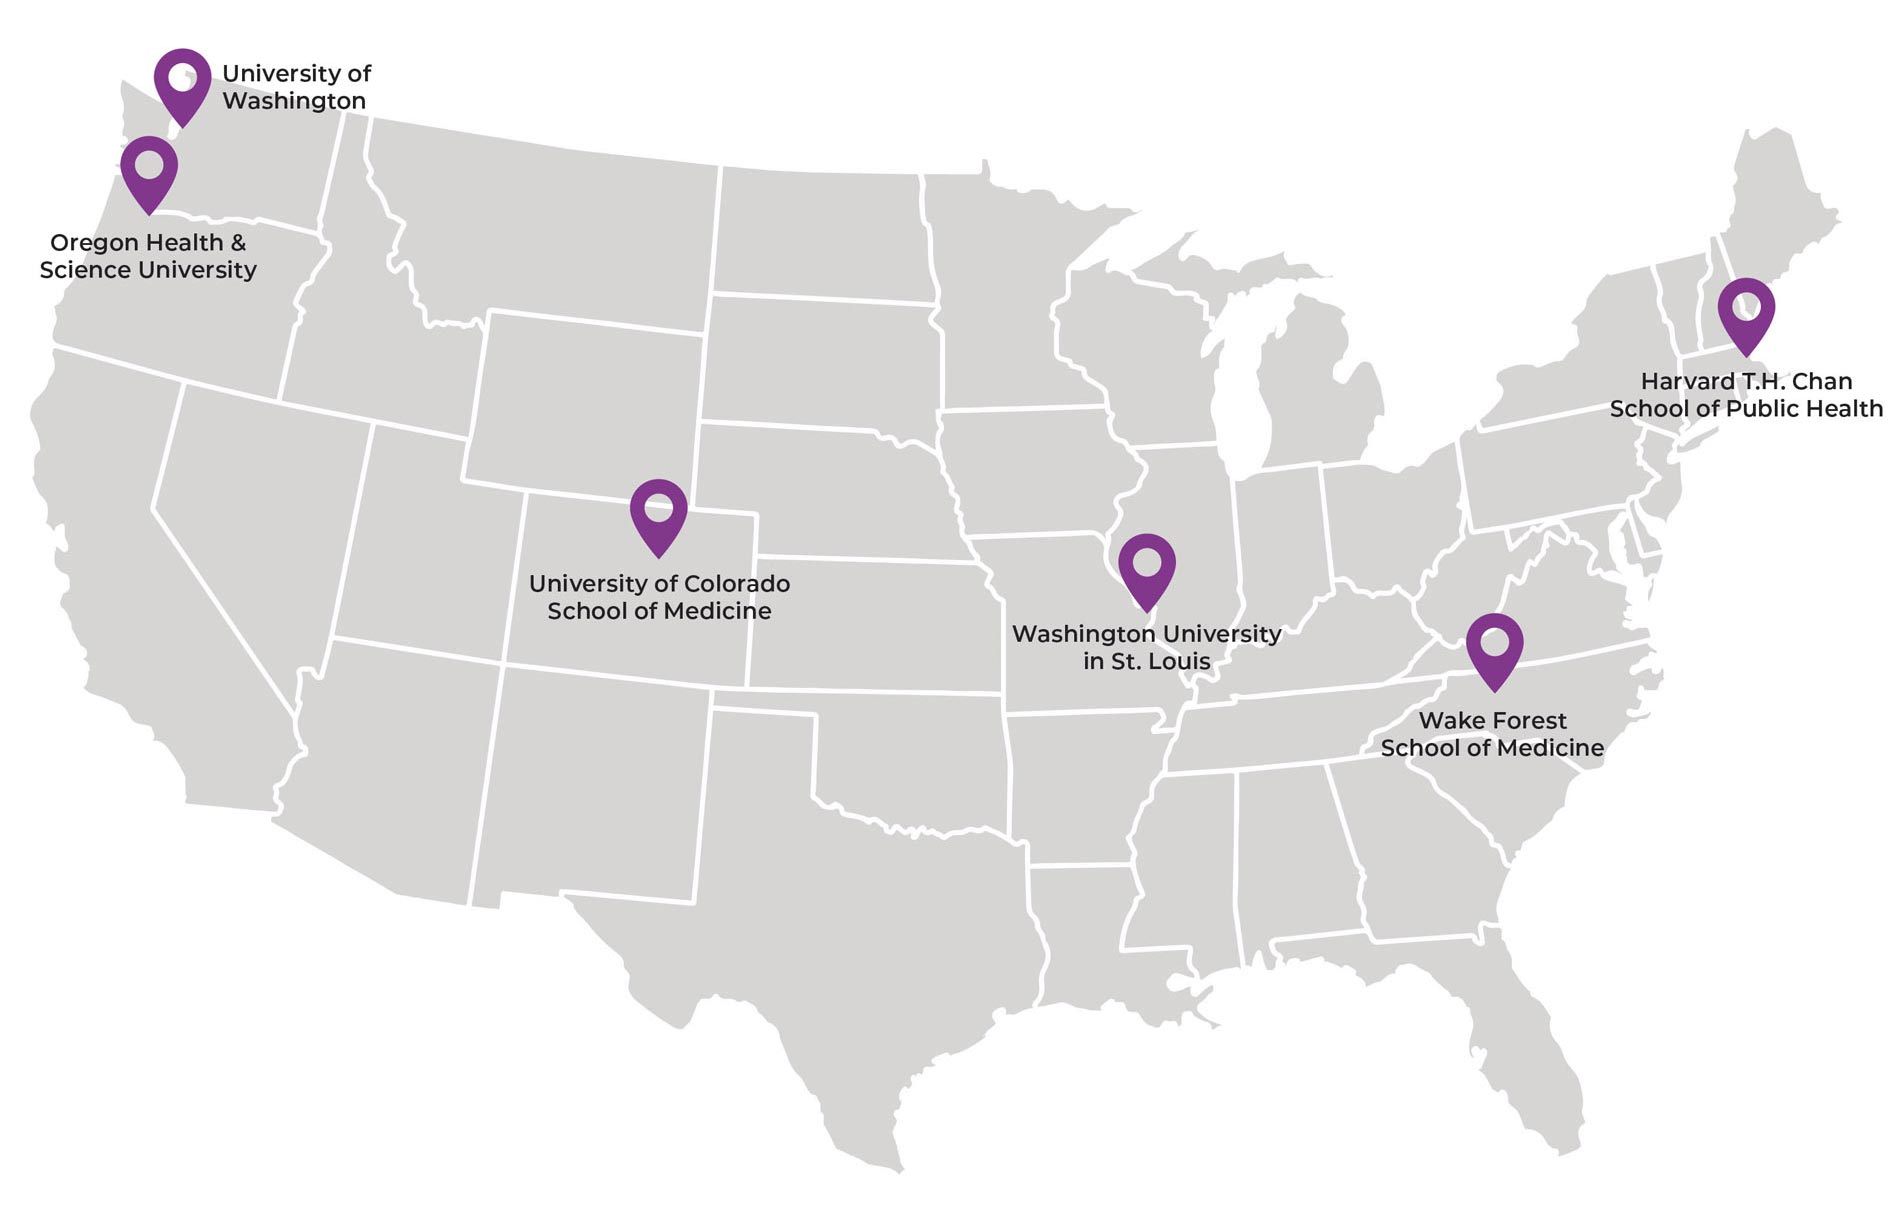
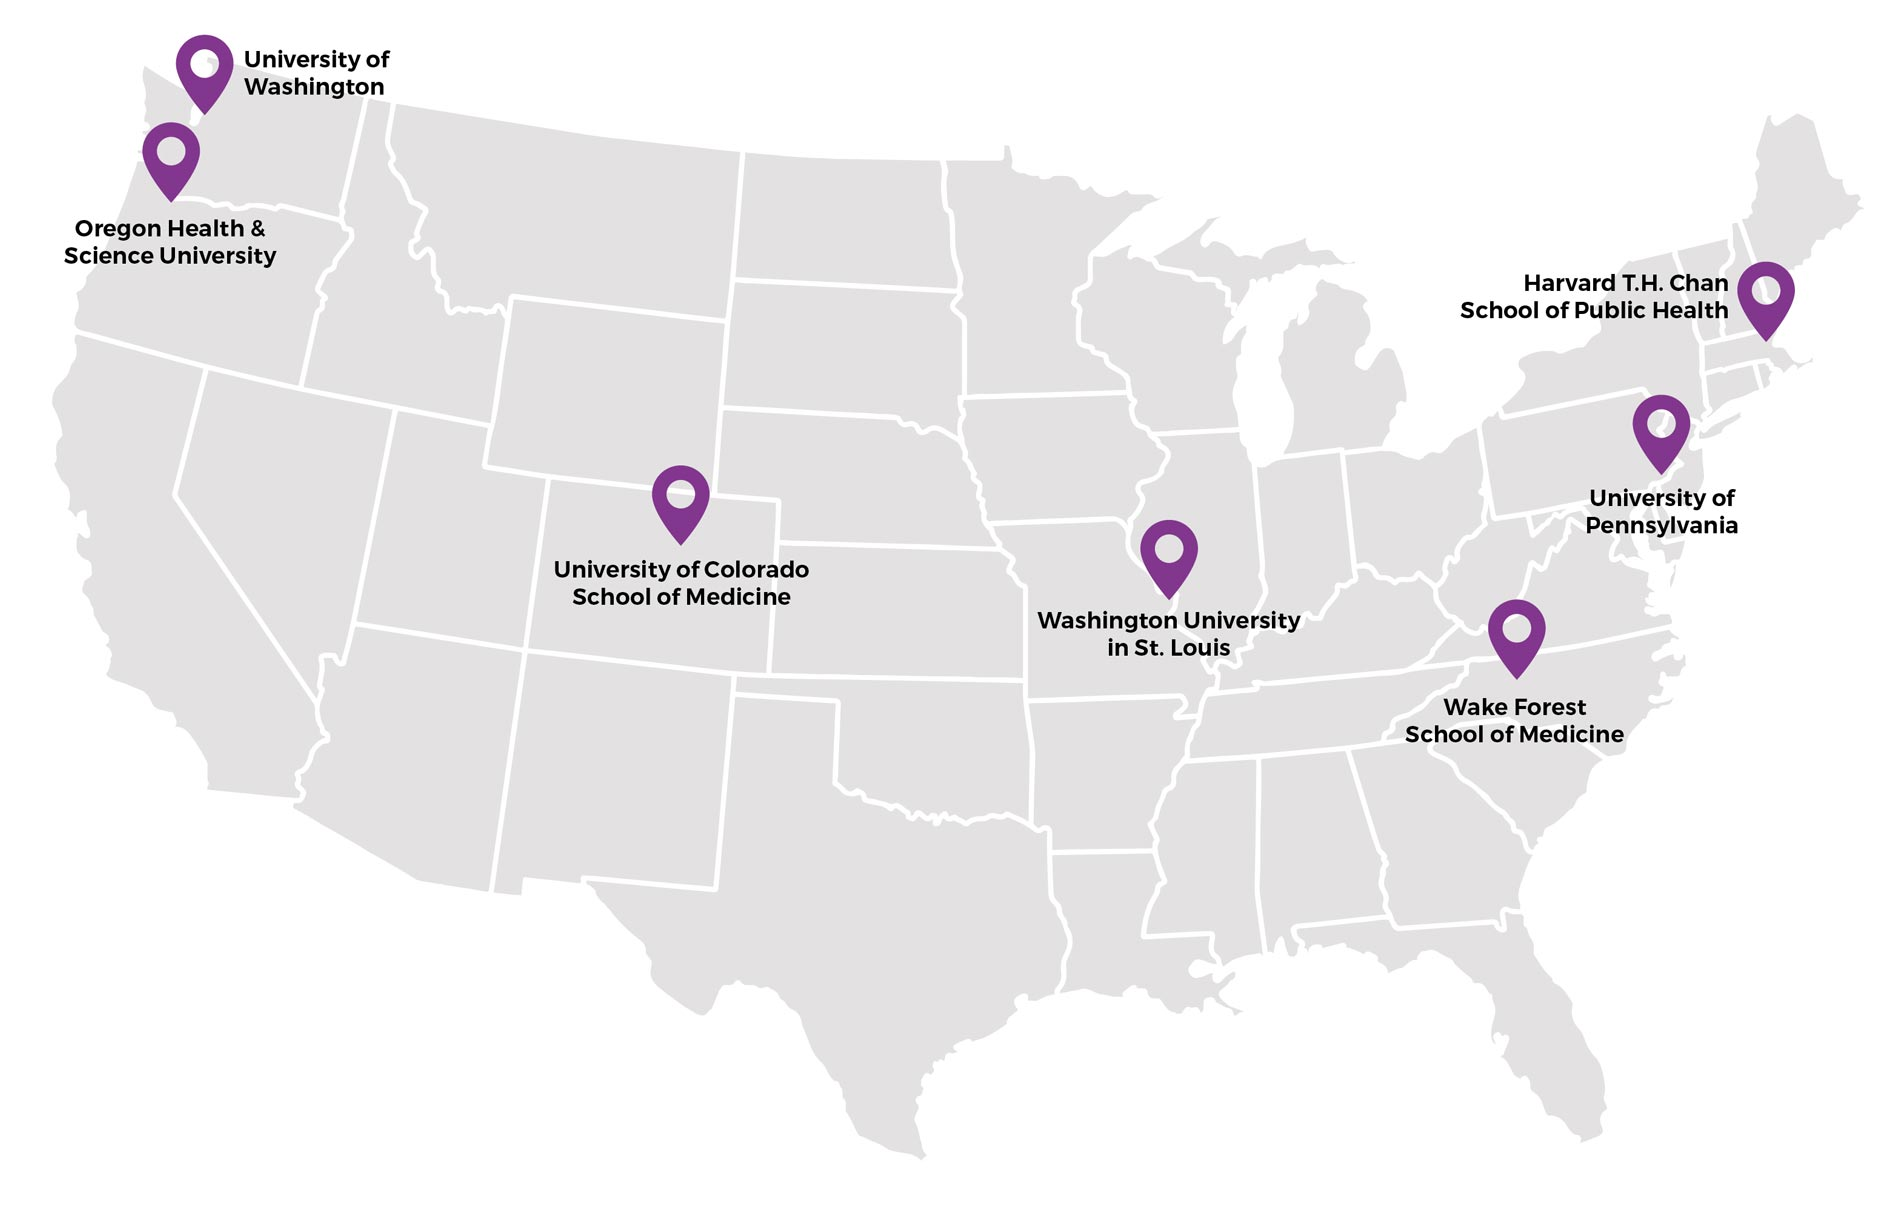
ISC3 update

diff --git a/IS/initiatives/ISC3.html b/IS/initiatives/ISC3.html
@@ -236,7 +236,7 @@ height="0" width="0" style="display:none;visibility:hidden" title="Google Tag Ma
             <div class="col-sm-12">
                 <h2 style="text-transform:none">Implementation Science Centers (P50s)</h2>
                 <div class="callout-box">
-                    <p>The ISC<sup>3</sup> Program is  composed of six Centers funded by <a href="https://grants.nih.gov/grants/guide/rfa-files/rfa-ca-19-005.html">RFA-CA-19-005</a> and <a href="https://grants.nih.gov/grants/guide/rfa-files/RFA-CA-19-006.html">RFA-CA-19-006</a>.</p>
+                    <p>The ISC<sup>3</sup> Program is  composed of seven Centers funded by <a href="https://grants.nih.gov/grants/guide/rfa-files/rfa-ca-19-005.html">RFA-CA-19-005</a> and <a href="https://grants.nih.gov/grants/guide/rfa-files/RFA-CA-19-006.html">RFA-CA-19-006</a>.</p>
 					<div class="row">
             			<div class="col-sm-10 col-sm-offset-1">
 							<img src="/IS/images/ISC3-Map.jpg" alt="Implementation Science Centers (P50s)" class="img-responsive">
@@ -297,6 +297,14 @@ height="0" width="0" style="display:none;visibility:hidden" title="Google Tag Ma
                           <td>Washington University in St. Louis</td>
                           <td><a href="https://projectreporter.nih.gov/project_info_description.cfm?aid=9869208&icde=46761976&ddparam=&ddvalue=&ddsub=&cr=4&csb=default&cs=ASC&pball=">1&nbsp;P50&nbsp;CA244431-01</a></td>
                         </tr>
+                        <tr>
+                          <th scope="row">Penn Implementation Science Center in Cancer Control (Penn ISC<sup>3</sup>)</th>
+                          <td><p>Justin Bekelman<br>
+                          Rinad Beidas<br>
+                          Robert Schnoll </p></td>
+                          <td>University of Pennsylvania</td>
+                          <td><a href="https://projectreporter.nih.gov/project_info_description.cfm?aid=9870182&icde=51229541&ddparam=&ddvalue=&ddsub=&cr=2&csb=default&cs=ASC&pball=">1&nbsp;P50&nbsp;CA244690-01</a></td>
+                        </tr>
                       </tbody>
                     </table>
                     </div>
@@ -313,10 +321,11 @@ height="0" width="0" style="display:none;visibility:hidden" title="Google Tag Ma
                 <p>Research activities for the Centers are organized around a cohesive, overarching implementation science theme that frames their activities and research agenda. </p>
                 <p><strong>Harvard T.H. Chan School of Public Health:</strong> The Implementation Science Center for Cancer Control Equity at Harvard is improving community health by integrating health equity and implementation science for evidence-based cancer control. </p>
                 <p><strong>Oregon Health &amp; Science University</strong>: The BRIDGE-C2 Center will focus on advancing implementation science to improve cancer screening and prevention in underserved populations. </p>
-                <p> <strong>University of Colorado School of Medicine:</strong> University of Colorado Denver will focus on pragmatic approaches to assess and enhance the value of cancer prevention and control in rural primary care. </p>
-                <p> <strong>University of Washington</strong>: The OPTICC Center will develop, test, and refine innovative methods for optimizing the implementation of evidence-based interventions in cancer control. </p>
-                <p> <strong>Wake Forest School of Medicine:</strong> iDAPT will advance the field of implementation science by using technologies to support rapid cycle and real-time deployment and testing of implementation processes and adaptations within cancer control. </p>
-                <p> <strong>Washington University in St. Louis</strong>: The WU-ISCCC will build a rigorous, scientific evidence base for rapid-cycle implementation research to increase the reach, external validity, and sustainability of effective cancer control interventions. The Center&rsquo;s goal and activities capture three distinct features: (1) a focus on elimination of cancer disparities; (2) the need for rapid-cycle studies; and (3) the use of systems science approaches to enhance methods and outcomes in implementation science.</p>
+                <p><strong>University of Colorado School of Medicine:</strong> University of Colorado Denver will focus on pragmatic approaches to assess and enhance the value of cancer prevention and control in rural primary care.</p>
+                <p><strong>University of Pennsylvania</strong>: The Penn ISC<sup>3</sup> will apply insights from behavioral economics to rapidly accelerate the pace at which evidence-based practices for cancer care are deployed and to which they are delivered equitably, thereby increasing their reach and impact on the health of individuals with cancer.</p>
+                <p><strong>University of Washington</strong>: The OPTICC Center will develop, test, and refine innovative methods for optimizing the implementation of evidence-based interventions in cancer control. </p>
+                <p><strong>Wake Forest School of Medicine:</strong> iDAPT will advance the field of implementation science by using technologies to support rapid cycle and real-time deployment and testing of implementation processes and adaptations within cancer control. </p>
+                <p><strong>Washington University in St. Louis</strong>: The WU-ISCCC will build a rigorous, scientific evidence base for rapid-cycle implementation research to increase the reach, external validity, and sustainability of effective cancer control interventions. The Center&rsquo;s goal and activities capture three distinct features: (1) a focus on elimination of cancer disparities; (2) the need for rapid-cycle studies; and (3) the use of systems science approaches to enhance methods and outcomes in implementation science.</p>
             </div>
         </div>
     </div>
@@ -419,7 +428,7 @@ height="0" width="0" style="display:none;visibility:hidden" title="Google Tag Ma
 <div class="container">
 	<div class="row">
 		<div class="col-lg-12">
-			<p class="update"><span class="bold">Last Updated:</span> <!-- InstanceBeginEditable name="Last Updated" -->June 19, 2020<!-- InstanceEndEditable --></p>
+			<p class="update"><span class="bold">Last Updated:</span> <!-- InstanceBeginEditable name="Last Updated" -->August 17, 2020<!-- InstanceEndEditable --></p>
 		</div> <!-- /.col-lg-12 -->
 	</div> <!-- /.row -->
 </div> <!-- /.container -->
